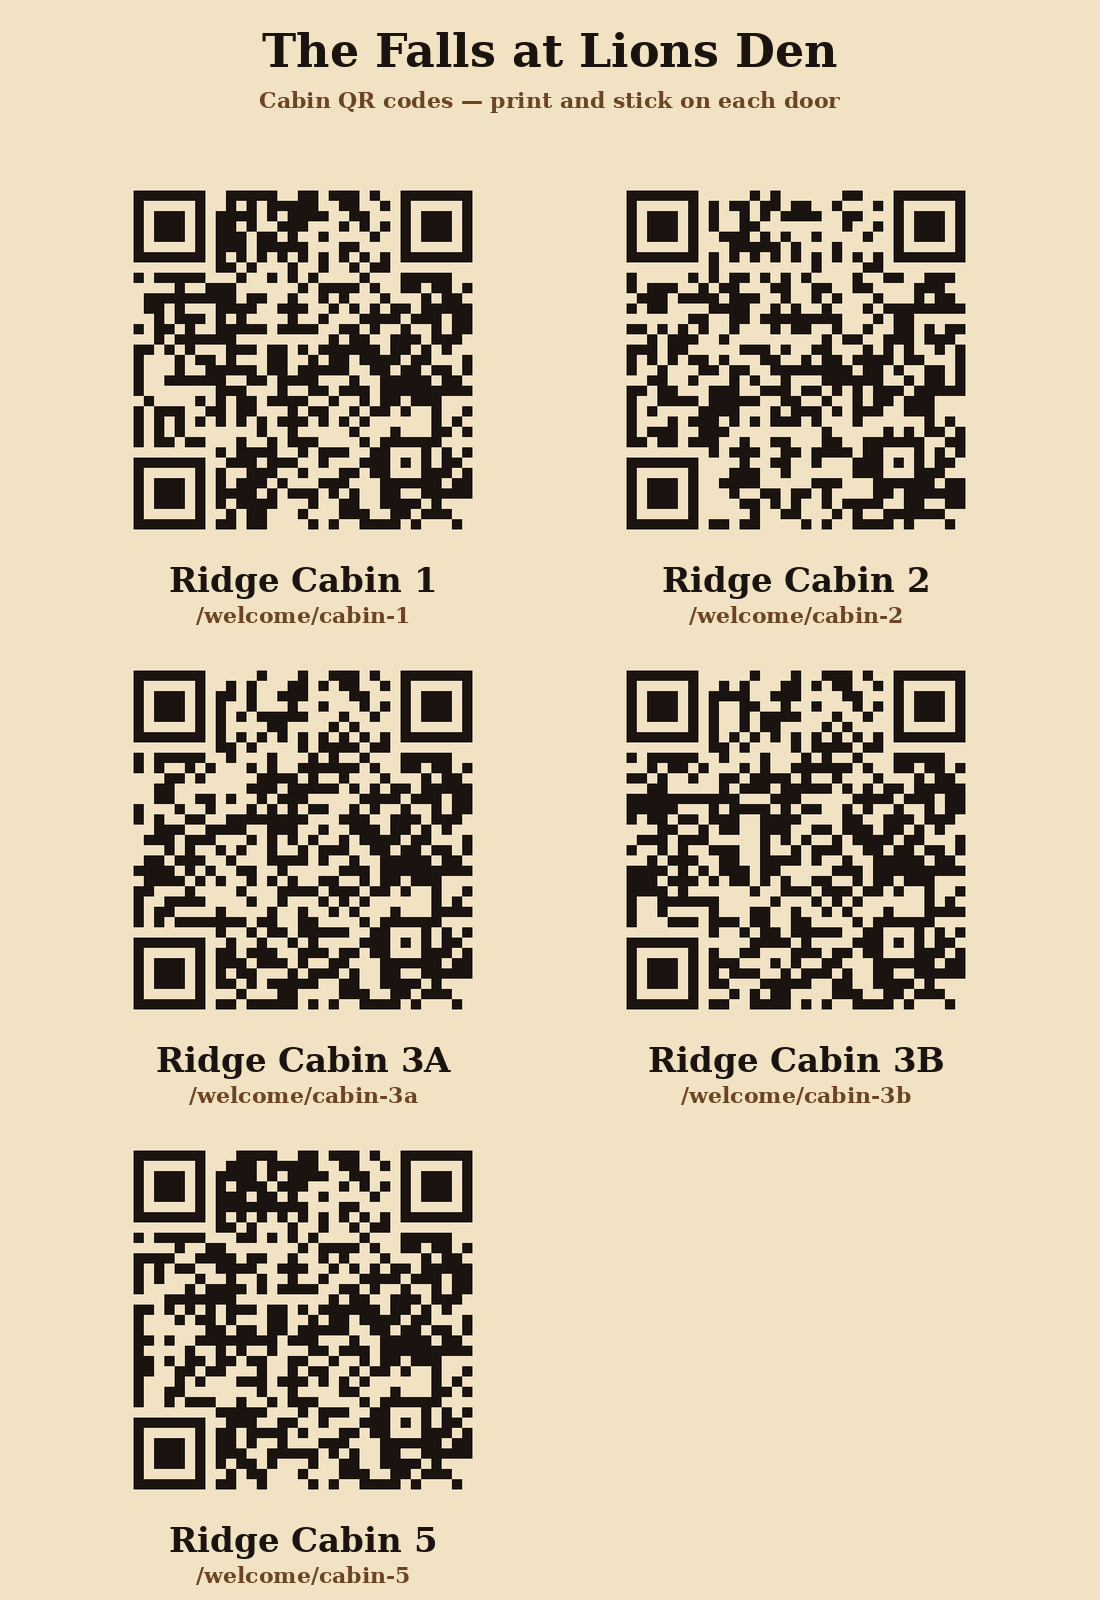
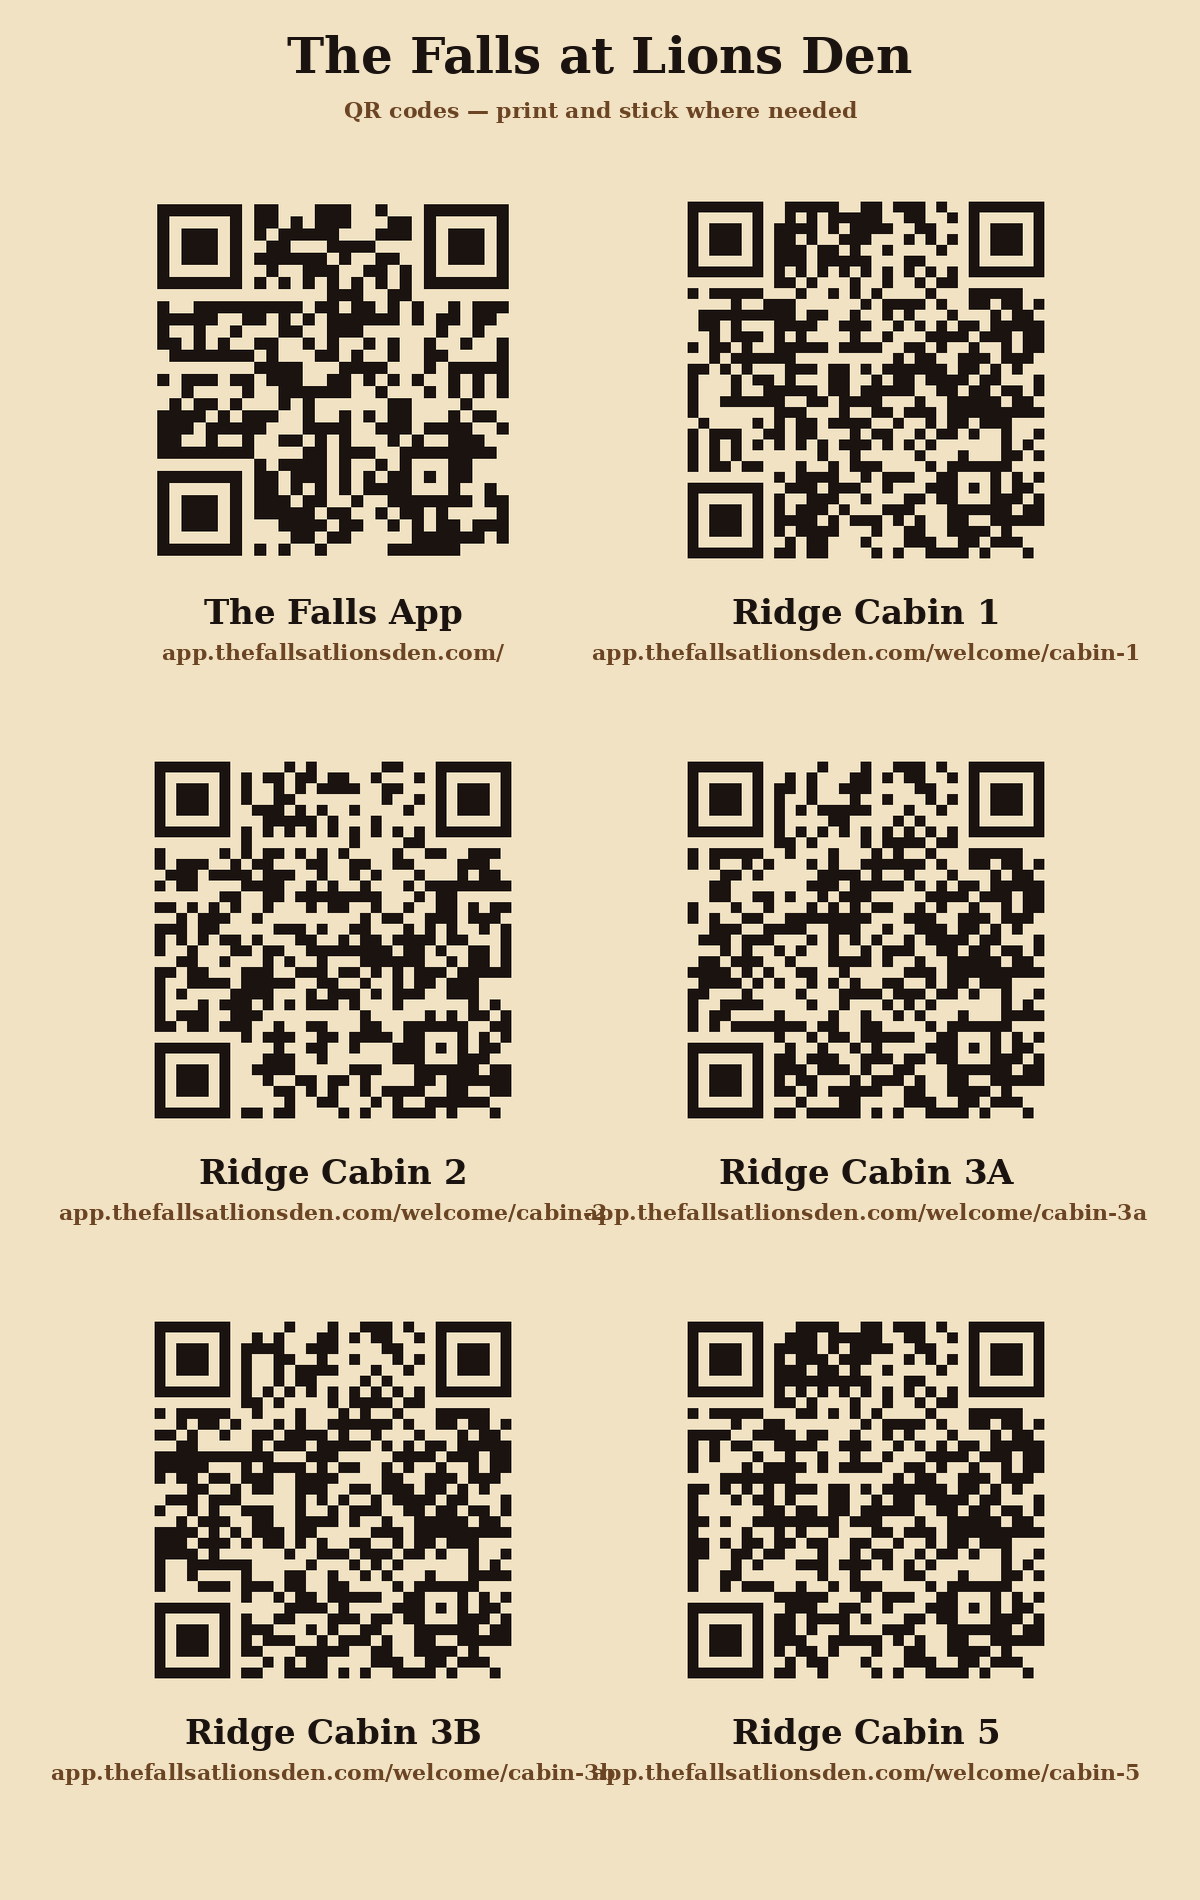
feat(admin): main-app QR + regenerated 6-up printable sheet
QR codes now cover:
- /public/qr/main.png       (home: app.thefallsatlionsden.com)
- /public/qr/cabin-{1,2,3a,3b,5}.png (per-cabin welcome pages)
- /public/qr/sheet.png      (all six on one printable PNG)

AdminDashboard CABINS array gains the 'main' entry first so the
home-page QR appears alongside the cabin ones; URL line collapses
to '/' for the main entry.

SW bump v103 -> v104

Changed region(s): [[0.0618, 0.0, 0.9582, 1.0], [0.4945, 0.3438, 0.5255, 0.375]]

diff --git a/src/components/AdminDashboard.tsx b/src/components/AdminDashboard.tsx
@@ -30,6 +30,7 @@ type Stats = {
 };
 
 const CABINS = [
+  { slug: "main", name: "Main App (home)" },
   { slug: "cabin-1", name: "Ridge Cabin 1" },
   { slug: "cabin-2", name: "Ridge Cabin 2" },
   { slug: "cabin-3a", name: "Ridge Cabin 3A" },
@@ -313,7 +314,7 @@ export default function AdminDashboard() {
                   className="block w-full aspect-square rounded-lg"
                 />
                 <div className="mt-2 text-[12px] font-semibold text-[#1A1310]">{c.name}</div>
-                <div className="text-[10px] text-[#6B4423] truncate">/welcome/{c.slug}</div>
+                <div className="text-[10px] text-[#6B4423] truncate">{c.slug === "main" ? "/" : `/welcome/${c.slug}`}</div>
               </div>
             ))}
           </div>

diff --git a/public/sw.js b/public/sw.js
@@ -1,7 +1,7 @@
 // public/sw.js — caches the app shell + map tiles + photos for offline use.
 // Registered by /src/components/RegisterSW.tsx on the home page.
 
-const VERSION = "v103";
+const VERSION = "v104";
 const APP_SHELL = `falls-app-${VERSION}`;
 const RUNTIME = `falls-runtime-${VERSION}`;
 const TILES = `falls-tiles-${VERSION}`;
